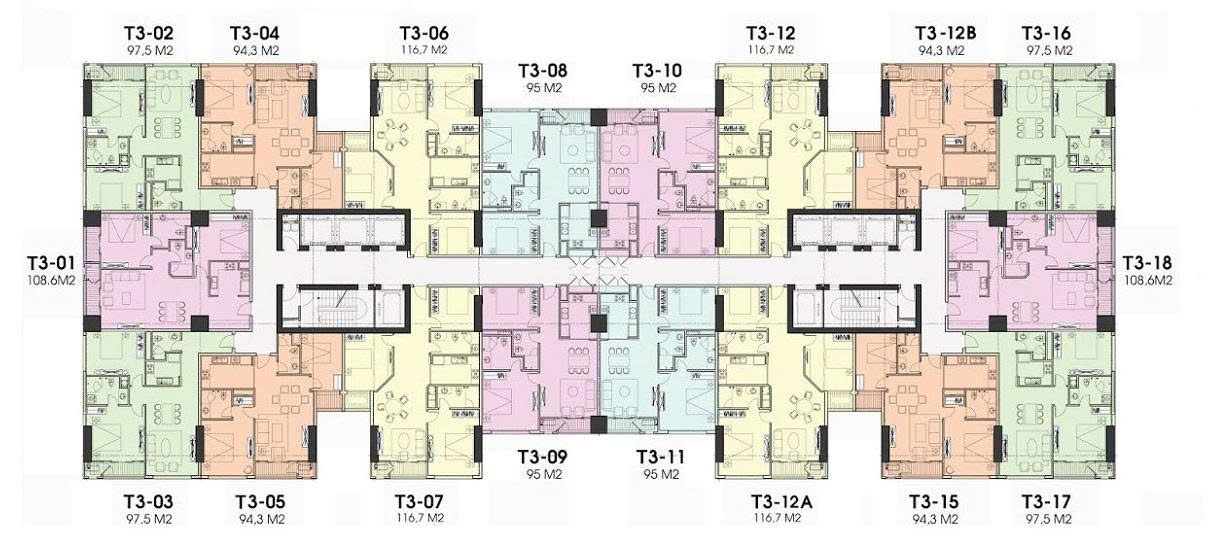
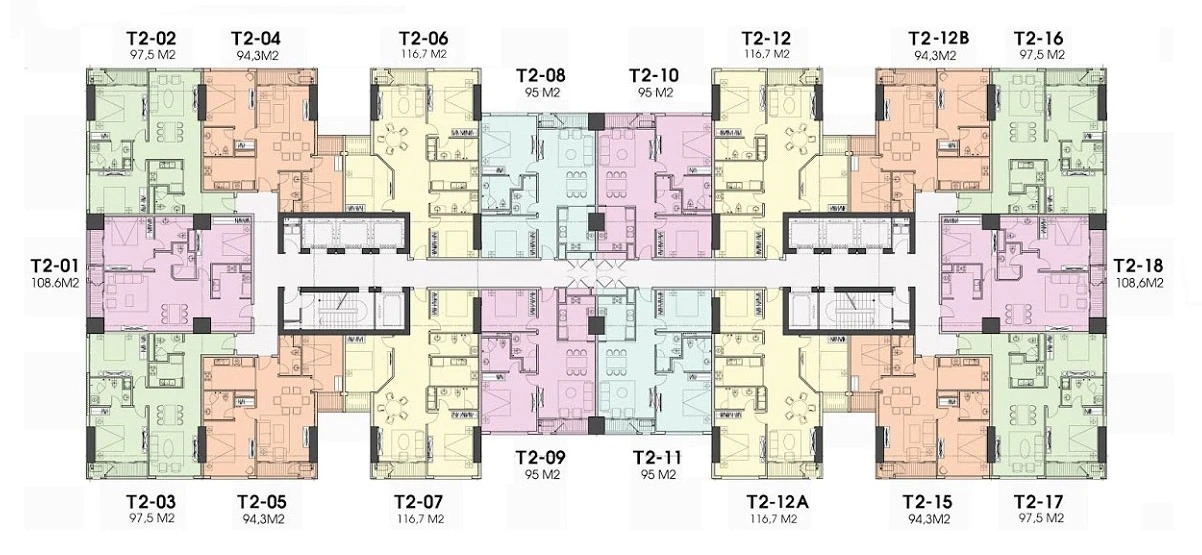
Give T2 and T4 their own plan images
T2 shows its own labels instead of T3's, T4 its own instead of T1's.
Each keeps its twin's boxes mapped through the building outline; T4's
plan is 1.11× T1's and both axes agree, so the boxes land on the
units. Every building now shows its own labels.

Changed region(s): [[0.0, 0.0307, 0.985, 0.9513]]

diff --git a/src/data/matBangTruc.js b/src/data/matBangTruc.js
@@ -1317,112 +1317,112 @@ export default {
   },
   "T02": {
     "01": {
-      "h": 25.21,
-      "w": 20.62,
-      "x": 1.15,
-      "y": 36.4
+      "h": 24.92,
+      "w": 20.72,
+      "x": 1.48,
+      "y": 36.81
     },
     "02": {
-      "h": 38.0,
-      "w": 14.97,
-      "x": 5.32,
-      "y": 3.63
+      "h": 37.57,
+      "w": 15.04,
+      "x": 5.67,
+      "y": 4.42
     },
     "03": {
-      "h": 41.96,
-      "w": 15.97,
-      "x": 4.42,
-      "y": 55.85
+      "h": 41.48,
+      "w": 16.05,
+      "x": 4.77,
+      "y": 56.04
     },
     "04": {
-      "h": 38.62,
-      "w": 13.92,
-      "x": 15.15,
-      "y": 3.29
+      "h": 38.18,
+      "w": 13.99,
+      "x": 15.55,
+      "y": 4.08
     },
     "05": {
-      "h": 41.16,
-      "w": 13.69,
-      "x": 15.24,
-      "y": 55.23
+      "h": 40.69,
+      "w": 13.76,
+      "x": 15.64,
+      "y": 55.43
     },
     "06": {
-      "h": 45.92,
-      "w": 14.17,
-      "x": 26.29,
-      "y": 3.09
+      "h": 45.4,
+      "w": 14.24,
+      "x": 26.74,
+      "y": 3.88
     },
     "07": {
-      "h": 47.42,
-      "w": 14.06,
-      "x": 26.99,
-      "y": 48.2
+      "h": 46.88,
+      "w": 14.13,
+      "x": 27.45,
+      "y": 48.48
     },
     "08": {
-      "h": 40.34,
-      "w": 12.37,
-      "x": 37.84,
-      "y": 8.85
+      "h": 39.88,
+      "w": 12.43,
+      "x": 38.35,
+      "y": 9.58
     },
     "09": {
-      "h": 39.16,
-      "w": 13.09,
-      "x": 37.81,
-      "y": 49.28
+      "h": 38.71,
+      "w": 13.16,
+      "x": 38.32,
+      "y": 49.55
     },
     "10": {
-      "h": 40.43,
-      "w": 12.53,
-      "x": 47.42,
-      "y": 9.03
+      "h": 39.97,
+      "w": 12.59,
+      "x": 47.98,
+      "y": 9.76
     },
     "11": {
-      "h": 39.62,
-      "w": 12.19,
-      "x": 47.79,
-      "y": 48.83
+      "h": 39.17,
+      "w": 12.25,
+      "x": 48.35,
+      "y": 49.1
     },
     "12": {
-      "h": 46.03,
-      "w": 14.32,
-      "x": 56.79,
-      "y": 3.07
+      "h": 45.51,
+      "w": 14.39,
+      "x": 57.4,
+      "y": 3.86
     },
     "12A": {
-      "h": 48.74,
-      "w": 14.07,
-      "x": 56.95,
-      "y": 48.19
+      "h": 48.18,
+      "w": 14.14,
+      "x": 57.56,
+      "y": 48.47
     },
     "12B": {
-      "h": 39.89,
-      "w": 14.48,
-      "x": 68.57,
-      "y": 2.53
+      "h": 39.44,
+      "w": 14.55,
+      "x": 69.23,
+      "y": 3.33
     },
     "15": {
-      "h": 40.97,
-      "w": 14.73,
-      "x": 68.16,
-      "y": 55.6
+      "h": 40.5,
+      "w": 14.8,
+      "x": 68.82,
+      "y": 55.8
     },
     "16": {
-      "h": 39.16,
-      "w": 17.17,
-      "x": 76.52,
-      "y": 3.47
+      "h": 38.71,
+      "w": 17.26,
+      "x": 77.22,
+      "y": 4.26
     },
     "17": {
-      "h": 41.34,
-      "w": 15.45,
-      "x": 77.42,
-      "y": 54.51
+      "h": 40.87,
+      "w": 15.53,
+      "x": 78.13,
+      "y": 54.72
     },
     "18": {
-      "h": 27.91,
-      "w": 21.52,
-      "x": 76.18,
-      "y": 34.6
+      "h": 27.59,
+      "w": 21.63,
+      "x": 76.88,
+      "y": 35.04
     }
   },
   "T03": {
@@ -1537,112 +1537,112 @@ export default {
   },
   "T04": {
     "01": {
-      "h": 37.77,
-      "w": 13.09,
-      "x": 5.6,
-      "y": 30.71
+      "h": 35.35,
+      "w": 12.6,
+      "x": 6.83,
+      "y": 32.2
     },
     "02": {
-      "h": 43.21,
-      "w": 16.89,
-      "x": 5.79,
-      "y": 7.88
+      "h": 40.44,
+      "w": 16.25,
+      "x": 7.01,
+      "y": 10.83
     },
     "03": {
-      "h": 42.39,
-      "w": 16.89,
-      "x": 5.79,
-      "y": 49.18
+      "h": 39.68,
+      "w": 16.25,
+      "x": 7.01,
+      "y": 49.49
     },
     "04": {
-      "h": 39.67,
-      "w": 13.28,
-      "x": 19.26,
-      "y": 10.87
+      "h": 37.13,
+      "w": 12.78,
+      "x": 19.98,
+      "y": 13.63
     },
     "05": {
-      "h": 39.4,
-      "w": 13.28,
-      "x": 19.26,
-      "y": 49.18
+      "h": 36.88,
+      "w": 12.78,
+      "x": 19.98,
+      "y": 49.49
     },
     "06": {
-      "h": 39.67,
-      "w": 12.9,
-      "x": 29.03,
-      "y": 10.87
+      "h": 37.13,
+      "w": 12.41,
+      "x": 29.38,
+      "y": 13.63
     },
     "07": {
-      "h": 39.4,
-      "w": 12.9,
-      "x": 29.03,
-      "y": 49.18
+      "h": 36.88,
+      "w": 12.41,
+      "x": 29.38,
+      "y": 49.49
     },
     "08": {
-      "h": 39.67,
-      "w": 13.0,
-      "x": 38.71,
-      "y": 10.87
+      "h": 37.13,
+      "w": 12.51,
+      "x": 38.7,
+      "y": 13.63
     },
     "09": {
-      "h": 39.4,
-      "w": 13.0,
-      "x": 38.71,
-      "y": 49.18
+      "h": 36.88,
+      "w": 12.51,
+      "x": 38.7,
+      "y": 49.49
     },
     "10": {
-      "h": 39.67,
-      "w": 12.9,
-      "x": 48.2,
-      "y": 10.87
+      "h": 37.13,
+      "w": 12.41,
+      "x": 47.83,
+      "y": 13.63
     },
     "11": {
-      "h": 39.4,
-      "w": 12.9,
-      "x": 48.2,
-      "y": 49.18
+      "h": 36.88,
+      "w": 12.41,
+      "x": 47.83,
+      "y": 49.49
     },
     "12": {
-      "h": 39.67,
-      "w": 12.81,
-      "x": 57.87,
-      "y": 10.87
+      "h": 37.13,
+      "w": 12.33,
+      "x": 57.14,
+      "y": 13.63
     },
     "12A": {
-      "h": 39.4,
-      "w": 12.81,
-      "x": 57.87,
-      "y": 49.18
+      "h": 36.88,
+      "w": 12.33,
+      "x": 57.14,
+      "y": 49.49
     },
     "12B": {
-      "h": 39.67,
-      "w": 13.19,
-      "x": 67.17,
-      "y": 10.87
+      "h": 37.13,
+      "w": 12.69,
+      "x": 66.09,
+      "y": 13.63
     },
     "15": {
-      "h": 39.4,
-      "w": 13.19,
-      "x": 67.17,
-      "y": 49.18
+      "h": 36.88,
+      "w": 12.69,
+      "x": 66.09,
+      "y": 49.49
     },
     "16": {
-      "h": 42.39,
-      "w": 17.17,
-      "x": 76.94,
-      "y": 8.15
+      "h": 39.68,
+      "w": 16.52,
+      "x": 75.49,
+      "y": 11.08
     },
     "17": {
-      "h": 42.93,
-      "w": 17.27,
-      "x": 76.94,
-      "y": 48.64
+      "h": 40.18,
+      "w": 16.62,
+      "x": 75.49,
+      "y": 48.98
     },
     "18": {
-      "h": 37.5,
-      "w": 13.19,
-      "x": 80.93,
-      "y": 30.98
+      "h": 35.1,
+      "w": 12.69,
+      "x": 79.33,
+      "y": 32.45
     }
   },
   "T05": {

diff --git a/scripts/catTrucMatBang.py b/scripts/catTrucMatBang.py
@@ -422,7 +422,7 @@ GIONG = {
 # mẫu, khớp sang ảnh riêng bằng viền tòa (ảnh hai tòa cắt / zoom khác nhau). Ảnh riêng
 # không bao giờ bị ảnh tòa mẫu ghi đè. Thêm ảnh riêng:
 #   python scripts/catTrucMatBang.py T08 --nen "C:\...\T08.jpg"
-NEN_RIENG = {"T08", "T05", "T06"}
+NEN_RIENG = {"T08", "T05", "T06", "T02", "T04"}
 
 
 def khop_toa_do(toa_do_mau, im_mau, im_dich):
